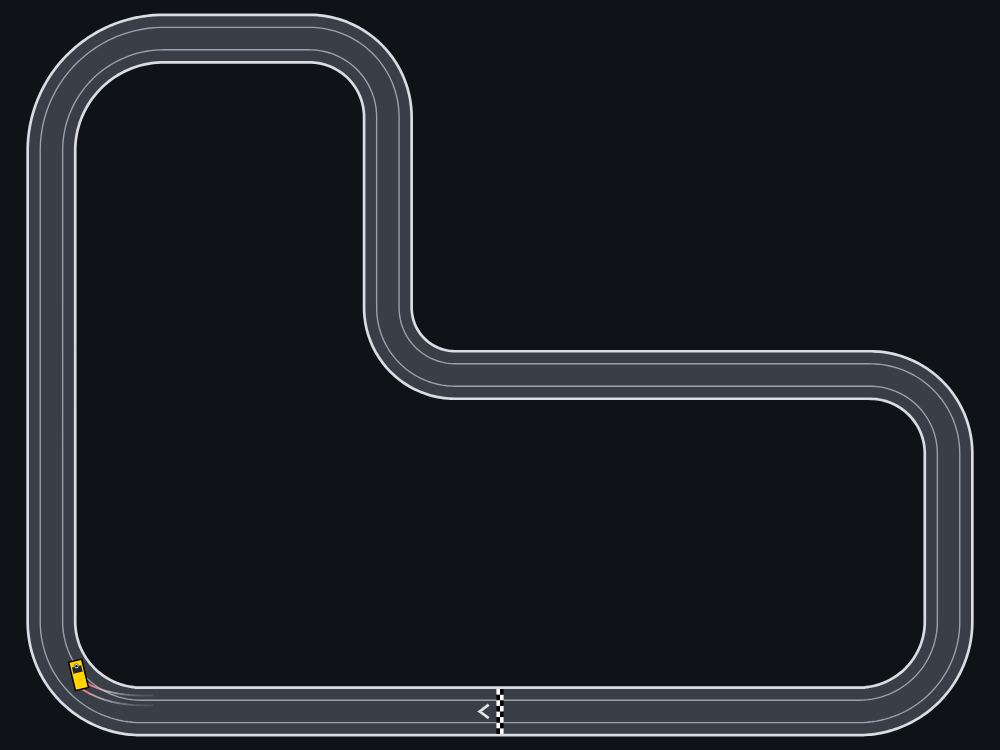
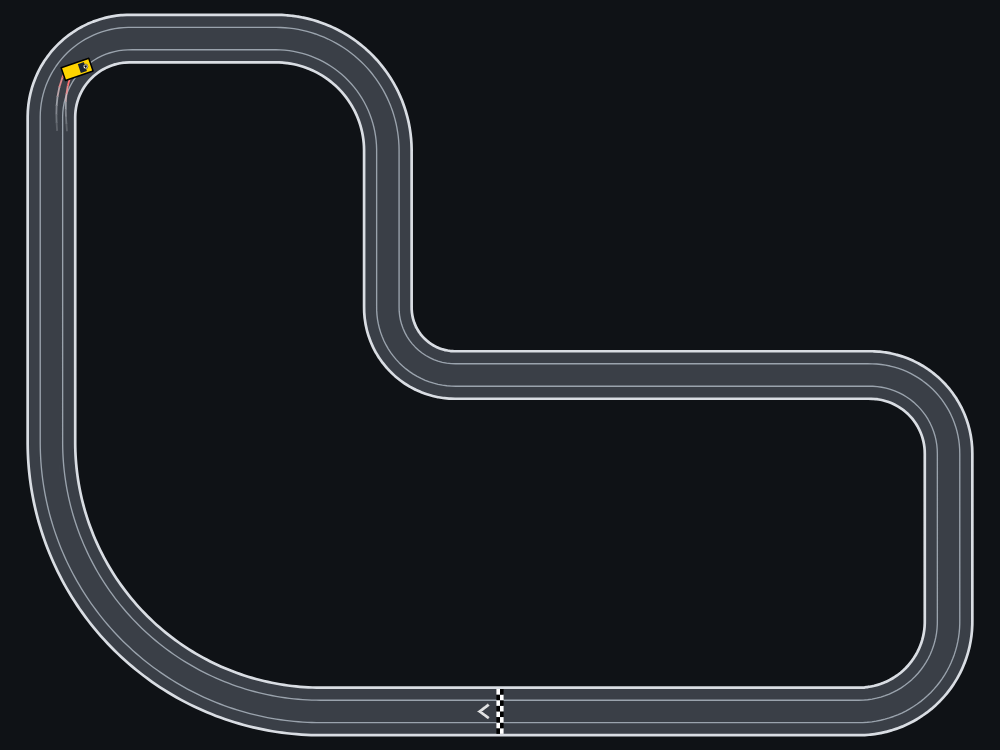
Widens the first Club curve and swaps the next two
Triples the first corner radius from 0.4 m to 1.2 m and swaps the
second and third corner radii to 0.35 m and 0.5 m. Adjusts adjacent
straights to preserve closure, the outline and the finish line.
The inner-lane lap now measures 12.36 m.

Updates geometry assertions, expected lane lengths, circuit descriptions
and the screenshot to match the revised layout.

Validation: 268 tests passed and one skipped. Temporary copies restoring
the smaller first corner or undoing the swap failed the new assertions.
Verified the circuit in headless Edge and inspected its rendered layout.
The layout was also driven manually, with a reported lap of 4.827 s.

Changed region(s): [[0.0, 0.6133, 0.31, 0.9813], [0.279, 0.0, 0.434, 0.184], [0.0, 0.0, 0.155, 0.184]]

diff --git a/test/circuits.test.js b/test/circuits.test.js
@@ -82,9 +82,9 @@ const STRAIGHT = Math.sqrt(1.5 ** 2 - 0.3 ** 2);
 
 // Expected lane lengths, worked out by hand from the pieces of each circuit.
 const EXPECTED_LENGTHS = {
-  // Polygon perimeter 14 m, minus twice the sum of the radii (2.3 m),
+  // Polygon perimeter 14 m, minus twice the sum of the radii (3.1 m),
   // plus the six quarter arcs. Net turning offsets each lane by 0.1 * PI m.
-  club: { inner: 9.4 + 1.05 * Math.PI, outer: 9.4 + 1.25 * Math.PI },
+  club: { inner: 7.8 + 1.45 * Math.PI, outer: 7.8 + 1.65 * Math.PI },
   oval: { inner: 4 + 0.7 * Math.PI, outer: 4 + 0.9 * Math.PI },
   speedway: { inner: 6 + 0.7 * Math.PI, outer: 6 + 0.9 * Math.PI },
   // 5.9 m of straights (0.6 + 1.2 + 3.5 + 0.6), two half turns made of two
@@ -252,6 +252,19 @@ test('the teardrop has a hairpin and a wide curve that add up to a full turn', (
 test('the club follows a clockwise rounded L with a left turn in its reentrant corner', () => {
   const { track, lanes } = buildCircuit(CLUB);
   const corners = track.pieces.filter((piece) => piece.type === 'curve');
+  const first = corners[0];
+  near(first.radius, 1.2);
+  near(first.start.x, -0.8);
+  near(first.start.y, 0);
+  near(first.end.x, -2);
+  near(first.end.y, 1.2);
+  near(lanes.inner.curvatureAt(0.9), -1 / 1.15);
+  near(corners[1].radius, 0.35);
+  near(corners[2].radius, 0.5);
+  near(corners[1].start.x, -2);
+  near(corners[1].start.y, 2.65);
+  near(corners[2].end.x, -0.5);
+  near(corners[2].end.y, 2.5);
   assert.equal(corners.filter((piece) => piece.angle > 0).length, 1);
   assert.equal(corners.filter((piece) => piece.angle < 0).length, 5);
   near(corners.reduce((sum, piece) => sum + piece.angle, 0), -2 * Math.PI);

diff --git a/src/core/circuits.js b/src/core/circuits.js
@@ -148,7 +148,9 @@ export const TEARDROP = Object.freeze({
  * (1.5, 3) and (0, 3), translated by -2 m in x to put the finish at (0, 0).
  * Each quarter circle trims its radius from both adjoining sides, including
  * the left turn in the reentrant corner.
- * The 3.2 m main straight is split equally by the finish line. Five right
+ * The first curve has a 1.2 m radius; the straights before and after it
+ * are shortened to keep the same outline. The finish line splits the 2.4 m
+ * main straight into 1.6 m before the line and 0.8 m after it. Five right
  * turns and one left turn give a net clockwise full turn; their different
  * radii and the change of direction break up the fast main straight.
  */
@@ -156,13 +158,13 @@ export const CLUB = Object.freeze({
   id: 'club',
   name: 'Club',
   pieces: Object.freeze([
-    straight(1.6),
-    curve(0.4, -Math.PI / 2),
-    straight(2.1),
-    curve(0.5, -Math.PI / 2),
-    straight(0.65),
+    straight(0.8),
+    curve(1.2, -Math.PI / 2),
+    straight(1.45),
     curve(0.35, -Math.PI / 2),
-    straight(0.85),
+    straight(0.65),
+    curve(0.5, -Math.PI / 2),
+    straight(0.7),
     curve(0.3, Math.PI / 2),
     straight(1.85),
     curve(0.35, -Math.PI / 2),

diff --git a/TECHNICAL_DETAILS.md b/TECHNICAL_DETAILS.md
@@ -16,7 +16,7 @@ This is a first playable prototype.
 
 **Works today**
 
-- Five circuits, chosen from a menu: an oval, a rounded rectangle (speedway), an oval with an S-bend of two long, tight curves on the first straight, two half turns, the first tightening and the second widening, and a long, fast return straight (the chicane, driven clockwise), a teardrop with a hairpin and a rounded L with a long main straight and a left turn in its reentrant corner (Club, also driven clockwise). Each has an inner and an outer lane (the car runs on the inner one). Choosing another circuit starts a new race. The address can choose the circuit the page opens on: `?circuit=oval`, `speedway`, `chicane`, `teardrop` or `club` (the case and the spaces around the name do not matter; a missing or unknown name gives the oval). Choosing a circuit from the menu rewrites the argument in the address (the entry of the history is replaced, not added), so reloading the page or sharing the address brings the circuit back. The lap times are those of the session and are not kept between circuits or page loads.
+- Five circuits, chosen from a menu: an oval, a rounded rectangle (speedway), an oval with an S-bend of two long, tight curves on the first straight, two half turns, the first tightening and the second widening, and a long, fast return straight (the chicane, driven clockwise), a teardrop with a hairpin and a rounded L with a wide first curve and a left turn in its reentrant corner (Club, also driven clockwise). Each has an inner and an outer lane (the car runs on the inner one). Choosing another circuit starts a new race. The address can choose the circuit the page opens on: `?circuit=oval`, `speedway`, `chicane`, `teardrop` or `club` (the case and the spaces around the name do not matter; a missing or unknown name gives the oval). Choosing a circuit from the menu rewrites the argument in the address (the entry of the history is replaced, not added), so reloading the page or sharing the address brings the circuit back. The lap times are those of the session and are not kept between circuits or page loads.
 - One car with a throttle, motor braking, friction and air drag.
 - A car with a guide pin that follows the lane and a body that pivots about it. Going too fast in a curve makes the tail slide out, which costs speed; going much too fast turns the body so far that the car leaves the track, slides a short way, and is put back on its lane after a pause. The values of the body (distances, inertia, damping, spin-out angle) are estimates for a 1:32 car, not measurements.
 - Marks that the rear tires leave on the track while the tail slides, stronger the harder the tail slides, turning from light grey to red towards the spin-out, and fading out after about four seconds.

diff --git a/README.md b/README.md
@@ -40,9 +40,9 @@ A wide curve at one end and a tight hairpin at the other, joined by two straight
 
 ### Club
 
-[![The L-shaped Club circuit seen from above, with the yellow car sliding in the bottom left corner and its tire marks behind it](docs/circuit-club.png)](https://isghe.github.io/openslotcars/?circuit=club)
+[![The L-shaped Club circuit seen from above, with the yellow car sliding in the top left corner and its tire marks behind it](docs/circuit-club.png)](https://isghe.github.io/openslotcars/?circuit=club)
 
-The longest circuit. A rounded L driven clockwise, with a long main straight, five right turns of different radii and a left turn in the inside corner. A lap is 12.70 m long.
+The longest circuit. A rounded L driven clockwise, with a wide first curve, five right turns of different radii and a left turn in the inside corner. A lap is 12.36 m long.
 
 ## Run it yourself, and how it works
 
